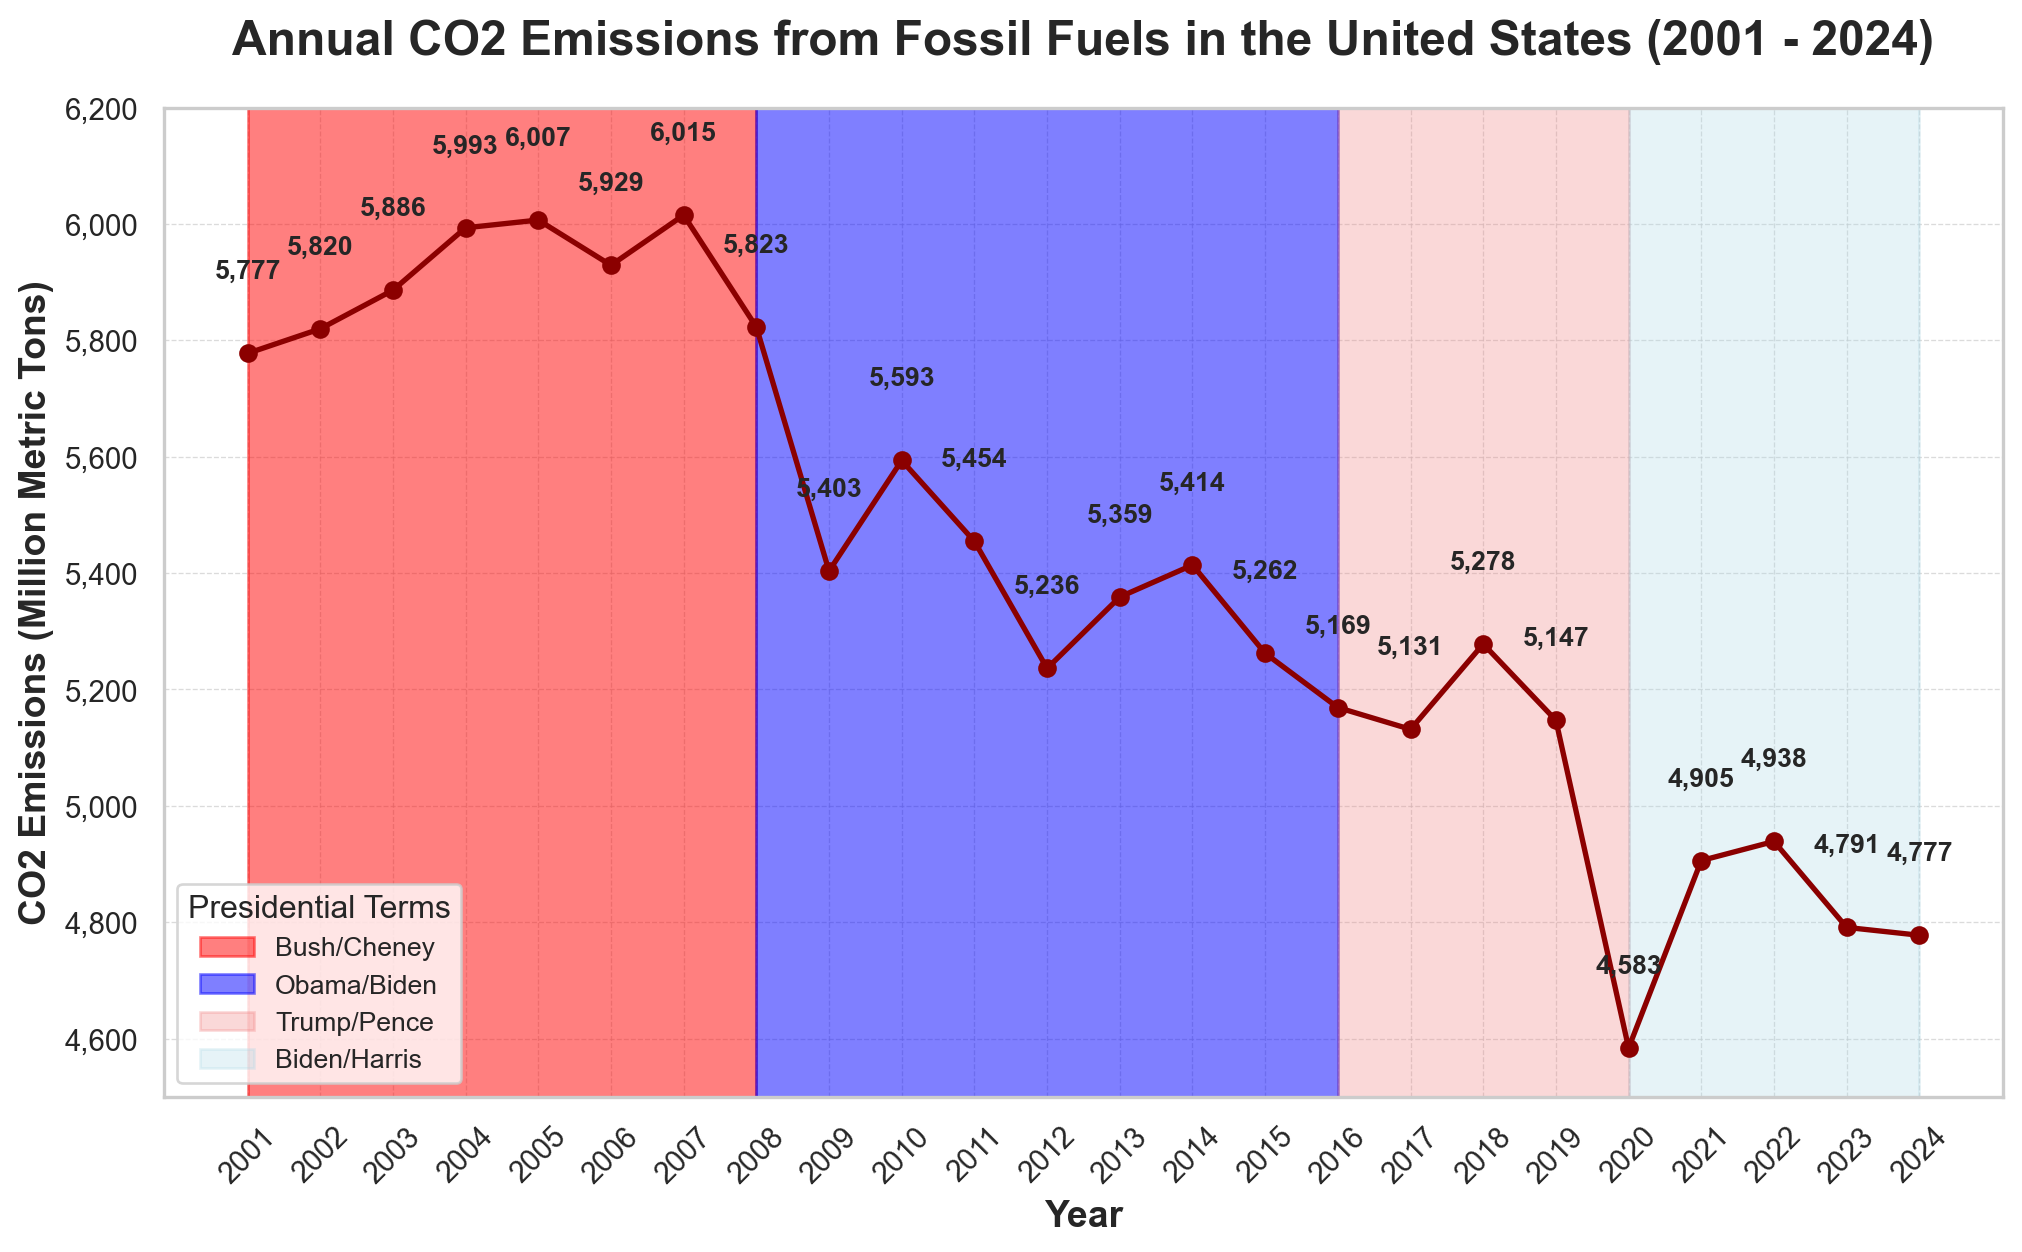
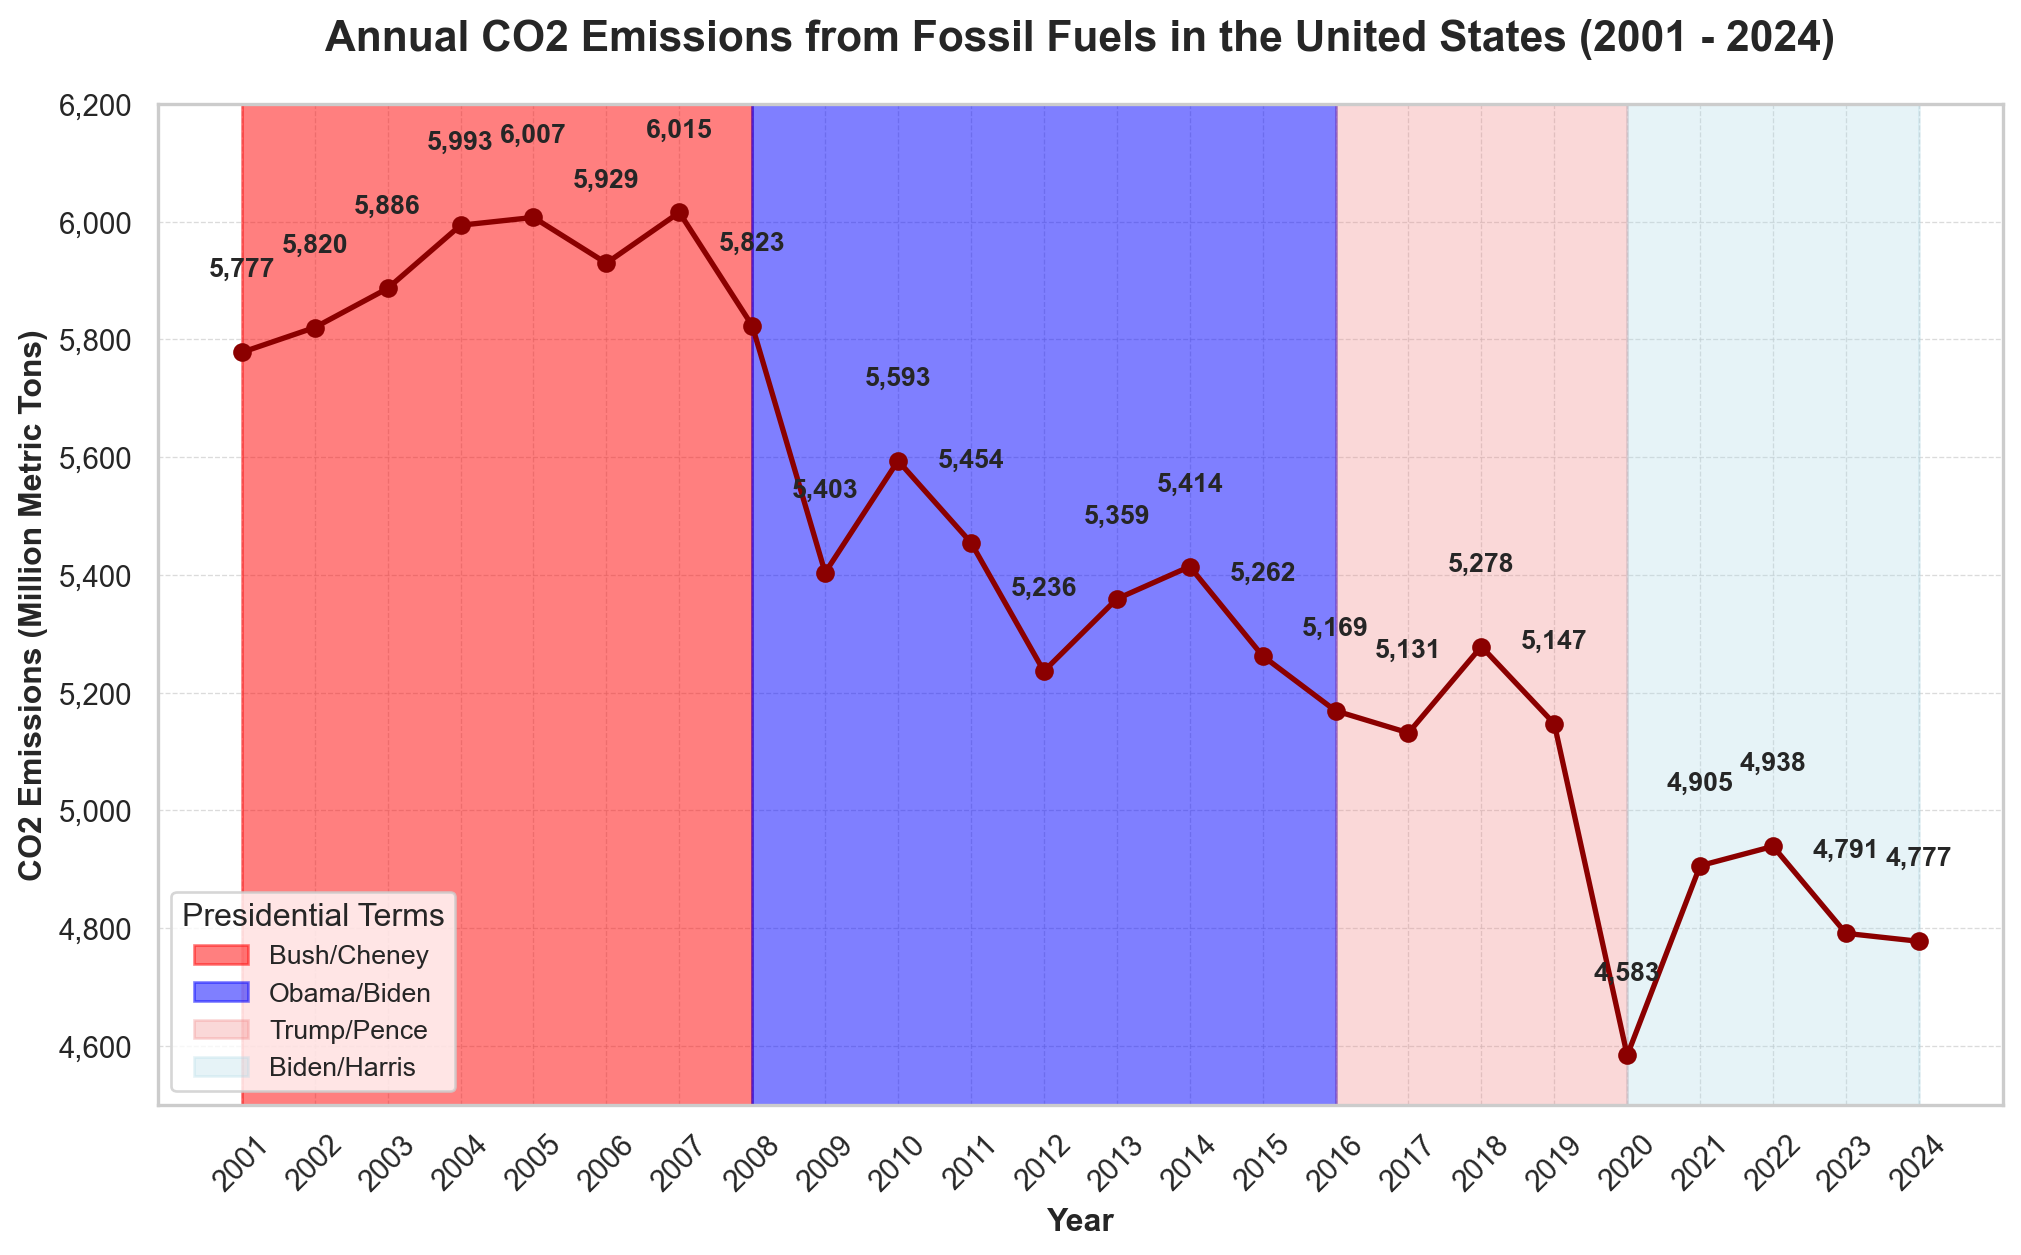
style

diff --git a/docs/index.html b/docs/index.html
@@ -228,7 +228,7 @@ pre > code.sourceCode > span > a:first-child::before { text-decoration: underlin
 <span id="cb1-62"><a href="#cb1-62" aria-hidden="true" tabindex="-1"></a></span>
 <span id="cb1-63"><a href="#cb1-63" aria-hidden="true" tabindex="-1"></a>plt.title(<span class="st">"Global Armed Conflict-Related Deaths (2001 - October 2024, Excluding Africa)"</span>, fontsize<span class="op">=</span><span class="dv">16</span>, weight<span class="op">=</span><span class="st">'bold'</span>)</span>
 <span id="cb1-64"><a href="#cb1-64" aria-hidden="true" tabindex="-1"></a>plt.xlabel(<span class="st">"Year"</span>, fontsize<span class="op">=</span><span class="dv">12</span>)</span>
-<span id="cb1-65"><a href="#cb1-65" aria-hidden="true" tabindex="-1"></a>plt.ylabel(<span class="st">"Total Deaths"</span>, fontsize<span class="op">=</span><span class="dv">12</span>)</span>
+<span id="cb1-65"><a href="#cb1-65" aria-hidden="true" tabindex="-1"></a>plt.ylabel(<span class="st">"Total Deaths"</span>, fontsize<span class="op">=</span><span class="dv">12</span>, weight<span class="op">=</span><span class="st">'bold'</span>)</span>
 <span id="cb1-66"><a href="#cb1-66" aria-hidden="true" tabindex="-1"></a></span>
 <span id="cb1-67"><a href="#cb1-67" aria-hidden="true" tabindex="-1"></a>plt.gca().yaxis.set_major_formatter(FuncFormatter(<span class="kw">lambda</span> x, _: <span class="ss">f"</span><span class="sc">{</span><span class="bu">int</span>(x)<span class="sc">:,}</span><span class="ss">"</span>))</span>
 <span id="cb1-68"><a href="#cb1-68" aria-hidden="true" tabindex="-1"></a></span>
@@ -364,7 +364,7 @@ pre > code.sourceCode > span > a:first-child::before { text-decoration: underlin
 <span id="cb2-33"><a href="#cb2-33" aria-hidden="true" tabindex="-1"></a></span>
 <span id="cb2-34"><a href="#cb2-34" aria-hidden="true" tabindex="-1"></a>plt.title(<span class="st">"Yearly Average Gasoline Prices (2001 - 2024)</span><span class="ch">\n</span><span class="st">All Grades All Formulations Retail Gasoline Prices Dollars per Gallon"</span>, fontsize<span class="op">=</span><span class="dv">16</span>, weight<span class="op">=</span><span class="st">'bold'</span>)</span>
 <span id="cb2-35"><a href="#cb2-35" aria-hidden="true" tabindex="-1"></a>plt.xlabel(<span class="st">"Year"</span>, fontsize<span class="op">=</span><span class="dv">12</span>)</span>
-<span id="cb2-36"><a href="#cb2-36" aria-hidden="true" tabindex="-1"></a>plt.ylabel(<span class="st">"Average Gasoline Price (Dollars per Gallon)"</span>, fontsize<span class="op">=</span><span class="dv">12</span>)</span>
+<span id="cb2-36"><a href="#cb2-36" aria-hidden="true" tabindex="-1"></a>plt.ylabel(<span class="st">"Average Gasoline Price (Dollars per Gallon)"</span>, fontsize<span class="op">=</span><span class="dv">12</span>, weight<span class="op">=</span><span class="st">'bold'</span>)</span>
 <span id="cb2-37"><a href="#cb2-37" aria-hidden="true" tabindex="-1"></a></span>
 <span id="cb2-38"><a href="#cb2-38" aria-hidden="true" tabindex="-1"></a>plt.gca().yaxis.set_major_formatter(FuncFormatter(<span class="kw">lambda</span> x, _: <span class="ss">f"$</span><span class="sc">{</span>x<span class="sc">:.2f}</span><span class="ss">"</span>))</span>
 <span id="cb2-39"><a href="#cb2-39" aria-hidden="true" tabindex="-1"></a></span>
@@ -428,7 +428,7 @@ pre > code.sourceCode > span > a:first-child::before { text-decoration: underlin
 <span id="cb3-28"><a href="#cb3-28" aria-hidden="true" tabindex="-1"></a><span class="co"># Titles and labels</span></span>
 <span id="cb3-29"><a href="#cb3-29" aria-hidden="true" tabindex="-1"></a>plt.title(<span class="st">"Annual Average of Quarterly Median Home Prices (2001 - 2024)"</span>, fontsize<span class="op">=</span><span class="dv">16</span>, weight<span class="op">=</span><span class="st">'bold'</span>)</span>
 <span id="cb3-30"><a href="#cb3-30" aria-hidden="true" tabindex="-1"></a>plt.xlabel(<span class="st">"Year"</span>, fontsize<span class="op">=</span><span class="dv">12</span>)</span>
-<span id="cb3-31"><a href="#cb3-31" aria-hidden="true" tabindex="-1"></a>plt.ylabel(<span class="st">"Average Median Home Price (Dollars)"</span>, fontsize<span class="op">=</span><span class="dv">12</span>)</span>
+<span id="cb3-31"><a href="#cb3-31" aria-hidden="true" tabindex="-1"></a>plt.ylabel(<span class="st">"Average Median Home Price (Dollars)"</span>, fontsize<span class="op">=</span><span class="dv">12</span>, weight<span class="op">=</span><span class="st">'bold'</span>)</span>
 <span id="cb3-32"><a href="#cb3-32" aria-hidden="true" tabindex="-1"></a></span>
 <span id="cb3-33"><a href="#cb3-33" aria-hidden="true" tabindex="-1"></a><span class="co"># Format y-axis with dollar sign and no decimal places</span></span>
 <span id="cb3-34"><a href="#cb3-34" aria-hidden="true" tabindex="-1"></a>plt.gca().yaxis.set_major_formatter(FuncFormatter(<span class="kw">lambda</span> x, _: <span class="ss">f"$</span><span class="sc">{</span>x<span class="sc">:,.0f}</span><span class="ss">"</span>))</span>
@@ -492,9 +492,9 @@ pre > code.sourceCode > span > a:first-child::before { text-decoration: underlin
 <span id="cb4-23"><a href="#cb4-23" aria-hidden="true" tabindex="-1"></a>    plt.text(x, y <span class="op">+</span> <span class="bu">max</span>(df[<span class="st">"co2_emission"</span>]) <span class="op">*</span> <span class="fl">0.02</span>, <span class="ss">f"</span><span class="sc">{</span><span class="bu">int</span>(y)<span class="sc">:,}</span><span class="ss">"</span>, ha<span class="op">=</span><span class="st">"center"</span>, va<span class="op">=</span><span class="st">"bottom"</span>, fontsize<span class="op">=</span><span class="dv">10</span>, weight<span class="op">=</span><span class="st">'bold'</span>)</span>
 <span id="cb4-24"><a href="#cb4-24" aria-hidden="true" tabindex="-1"></a></span>
 <span id="cb4-25"><a href="#cb4-25" aria-hidden="true" tabindex="-1"></a><span class="co"># Title and labels</span></span>
-<span id="cb4-26"><a href="#cb4-26" aria-hidden="true" tabindex="-1"></a>plt.title(<span class="vs">r"Annual CO2 Emissions from Fossil Fuels in the United States (2001 - 2024)"</span>, fontsize<span class="op">=</span><span class="dv">18</span>, weight<span class="op">=</span><span class="st">'bold'</span>, pad<span class="op">=</span><span class="dv">20</span>)</span>
-<span id="cb4-27"><a href="#cb4-27" aria-hidden="true" tabindex="-1"></a>plt.xlabel(<span class="st">"Year"</span>, fontsize<span class="op">=</span><span class="dv">14</span>, weight<span class="op">=</span><span class="st">'bold'</span>)</span>
-<span id="cb4-28"><a href="#cb4-28" aria-hidden="true" tabindex="-1"></a>plt.ylabel(<span class="vs">r"CO2 Emissions (Million Metric Tons)"</span>, fontsize<span class="op">=</span><span class="dv">14</span>, weight<span class="op">=</span><span class="st">'bold'</span>)</span>
+<span id="cb4-26"><a href="#cb4-26" aria-hidden="true" tabindex="-1"></a>plt.title(<span class="vs">r"Annual CO2 Emissions from Fossil Fuels in the United States (2001 - 2024)"</span>, fontsize<span class="op">=</span><span class="dv">16</span>, weight<span class="op">=</span><span class="st">'bold'</span>, pad<span class="op">=</span><span class="dv">20</span>)</span>
+<span id="cb4-27"><a href="#cb4-27" aria-hidden="true" tabindex="-1"></a>plt.xlabel(<span class="st">"Year"</span>, fontsize<span class="op">=</span><span class="dv">12</span>, weight<span class="op">=</span><span class="st">'bold'</span>)</span>
+<span id="cb4-28"><a href="#cb4-28" aria-hidden="true" tabindex="-1"></a>plt.ylabel(<span class="vs">r"CO2 Emissions (Million Metric Tons)"</span>, fontsize<span class="op">=</span><span class="dv">12</span>, weight<span class="op">=</span><span class="st">'bold'</span>)</span>
 <span id="cb4-29"><a href="#cb4-29" aria-hidden="true" tabindex="-1"></a></span>
 <span id="cb4-30"><a href="#cb4-30" aria-hidden="true" tabindex="-1"></a><span class="co"># Set y-axis limit to 10,000</span></span>
 <span id="cb4-31"><a href="#cb4-31" aria-hidden="true" tabindex="-1"></a>plt.ylim(<span class="dv">4500</span>, <span class="dv">6200</span>)</span>
@@ -519,7 +519,7 @@ pre > code.sourceCode > span > a:first-child::before { text-decoration: underlin
 <div class="cell-output cell-output-display">
 <div>
 <figure class="figure">
-<p><img src="index_files/figure-html/graph4-output-1.png" id="graph4" width="1011" height="626" class="figure-img"></p>
+<p><img src="index_files/figure-html/graph4-output-1.png" id="graph4" width="1011" height="628" class="figure-img"></p>
 </figure>
 </div>
 </div>
